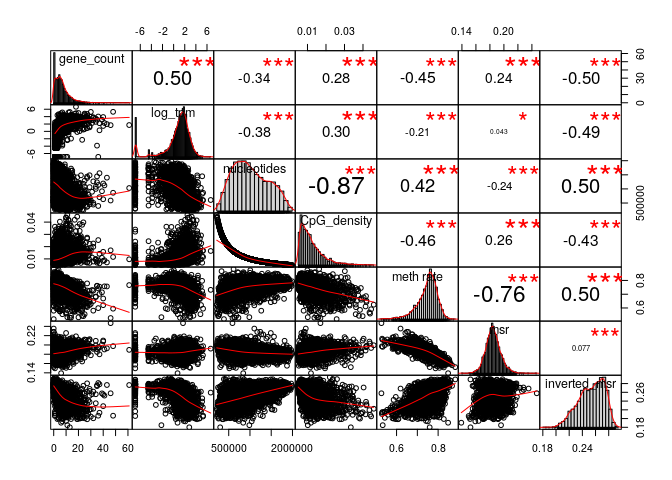
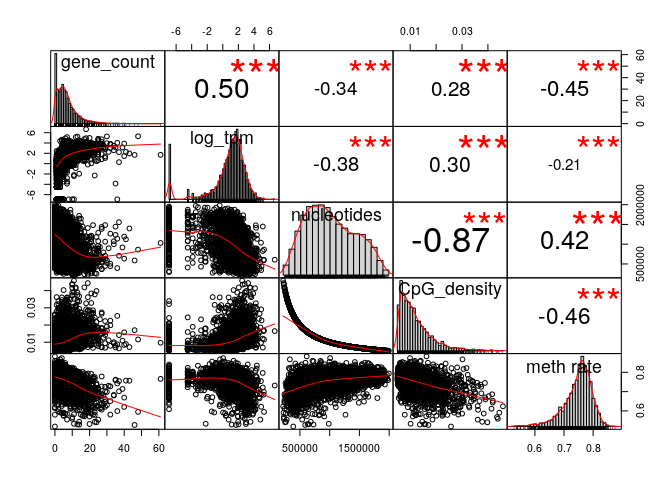
plot update

diff --git a/Plots/28-05/MSR_and_expression_stomach_1e4-.md b/Plots/28-05/MSR_and_expression_stomach_1e4-.md
@@ -3,7 +3,7 @@ MSR and expression, for stomach cells and window size of 10,000
 
 Here I will investigate if there is a relationship between the presence of genes and genes expression in a certain genomic region and the MSR (with some of its derivate statistics).
 
-I chose stomach cells data in order to do this, and CpG windows of size 1000, that corresponds to a variable window size in term of nucleotides (on average about 100,000).
+I chose stomach cells data in order to do this, and CpG windows of size 10,000, that corresponds to a variable window size in term of nucleotides (on average about 1,000,000).
 
 This is an example of total-rna-seq file, that shows for each "gene" its transcripts and some measures of expression. In this case I just kept two colums. The first one indicates the "gene"", the second one is the Transcript Per Million that is a relative measure of how much a gene is expressed.
 
@@ -39,11 +39,6 @@ The number of genes is much less than the ones in the total-rna-seq file, since 
 
 So the final dataFrame is the following (excluding some columns for readability):
 
-    ## Warning in sqrt((data_table$gene_count - 1)/(data_table$gene_count)): Si è
-    ## prodotto un NaN
-
-    ## 8 rows had too many nucleotides
-
     ##   start_chr start_position end_position gene_count total_TPM meth rate
     ## 2      chr1         921648      1151546         10     12.65 0.5677261
     ## 3      chr1        1151546      1390325         17     32.56 0.6524979
@@ -56,7 +51,7 @@ The full scheme includes:
 
 **nucleotides**: number of nucleotides in the window
 
-**CpG density**: fraction of nucleotides that is a C of a CpG site (= 1000/nucleotides)
+**CpG density**: fraction of nucleotides that is a C of a CpG site (= 10000/nucleotides)
 
 **meth rate**: ratio of methylated CpG sites
 
@@ -70,32 +65,32 @@ First let's see if there are pairwise correlations between the features.
 
 ###### Basic features:
 
-![](MSR_and_expression_stomach_1e4-_files/figure-markdown_github/unnamed-chunk-6-1.png)
+![](MSR_and_expression_stomach_1e4-_files/figure-markdown_github/unnamed-chunk-7-1.png)
 
 log(TPM) is considered only for fragments with at least a gene.
 
 ###### Comparison with simple MSR statistics:
 
-![](MSR_and_expression_stomach_1e4-_files/figure-markdown_github/unnamed-chunk-7-1.png)
+![](MSR_and_expression_stomach_1e4-_files/figure-markdown_github/unnamed-chunk-8-1.png)
 
 ###### Comparison with other MSR statistics:
 
-![](MSR_and_expression_stomach_1e4-_files/figure-markdown_github/unnamed-chunk-8-1.png)
-
 ![](MSR_and_expression_stomach_1e4-_files/figure-markdown_github/unnamed-chunk-9-1.png)
+
+![](MSR_and_expression_stomach_1e4-_files/figure-markdown_github/unnamed-chunk-10-1.png)
 
 The correlation between the total TPM with the standard deviation of the TPM is:
 
     ##      cor 
     ## 0.892561
 
-![](MSR_and_expression_stomach_1e4-_files/figure-markdown_github/unnamed-chunk-11-1.png)
-
 ![](MSR_and_expression_stomach_1e4-_files/figure-markdown_github/unnamed-chunk-12-1.png)
+
+![](MSR_and_expression_stomach_1e4-_files/figure-markdown_github/unnamed-chunk-13-1.png)
 
 #### Predicting gene number
 
-![](MSR_and_expression_stomach_1e4-_files/figure-markdown_github/unnamed-chunk-13-1.png)
+![](MSR_and_expression_stomach_1e4-_files/figure-markdown_github/unnamed-chunk-14-1.png)
 
 Poisson regression for gene number with basic predictors (nucleotides, CpG\_density, meth rate):
 
@@ -180,26 +175,21 @@ Poisson Regression Model with several predictors
     ## 
     ##     Null deviance: 12961.3  on 2766  degrees of freedom
     ## Residual deviance:  7480.8  on 2758  degrees of freedom
-    ##   (140 observations deleted due to missingness)
     ## AIC: 16809
     ## 
     ## Number of Fisher Scoring iterations: 5
 
-    ## Warning in prediction - actual: longer object length is not a multiple of
-    ## shorter object length
-
-![](MSR_and_expression_stomach_1e4-_files/figure-markdown_github/unnamed-chunk-16-1.png)
+![](MSR_and_expression_stomach_1e4-_files/figure-markdown_github/unnamed-chunk-17-1.png)
 
 #### Predicting log(TPM)
 
-Distribution of TPM values (only for regions that contains some genes) ![](MSR_and_expression_stomach_1e4-_files/figure-markdown_github/unnamed-chunk-17-1.png)
+Distribution of TPM values (only for regions that contains some genes). ![](MSR_and_expression_stomach_1e4-_files/figure-markdown_github/unnamed-chunk-18-1.png)
 
 Linear model for log(TPM) with standard predictors:
 
     ## 
     ## Call:
-    ## lm(formula = log_tpm ~ ., data = model_data[, c(to_predict, basic_predictors, 
-    ##     "gene_count")])
+    ## lm(formula = log_tpm ~ ., data = model_data)
     ## 
     ## Residuals:
     ##      Min       1Q   Median       3Q      Max 
@@ -224,8 +214,7 @@ Linear model for TPM with all features and MSR statistics:
 
     ## 
     ## Call:
-    ## lm(formula = log_tpm ~ ., data = model_data[, c(to_predict, basic_predictors, 
-    ##     msr_predictors, "gene_count", "genes_nucleotides_count")])
+    ## lm(formula = log_tpm ~ ., data = model_data)
     ## 
     ## Residuals:
     ##     Min      1Q  Median      3Q     Max 
@@ -253,7 +242,7 @@ Linear model for TPM with all features and MSR statistics:
     ## Multiple R-squared:  0.4486, Adjusted R-squared:  0.4464 
     ## F-statistic: 210.9 on 10 and 2593 DF,  p-value: < 2.2e-16
 
-![](MSR_and_expression_stomach_1e4-_files/figure-markdown_github/unnamed-chunk-19-1.png)
+![](MSR_and_expression_stomach_1e4-_files/figure-markdown_github/unnamed-chunk-20-1.png)
 
 Linear model for TPM with all features and MSR statistics, without information about genes:
 
